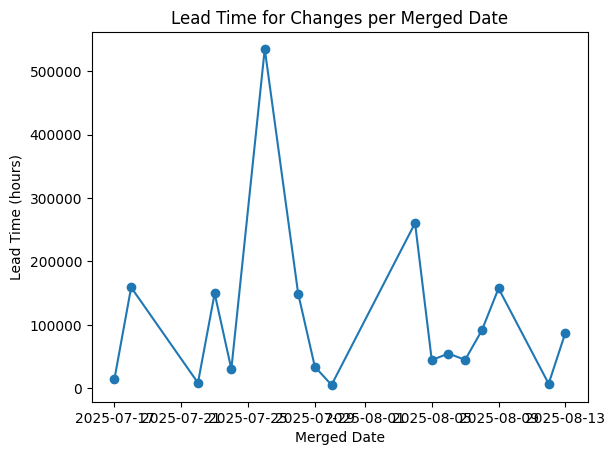
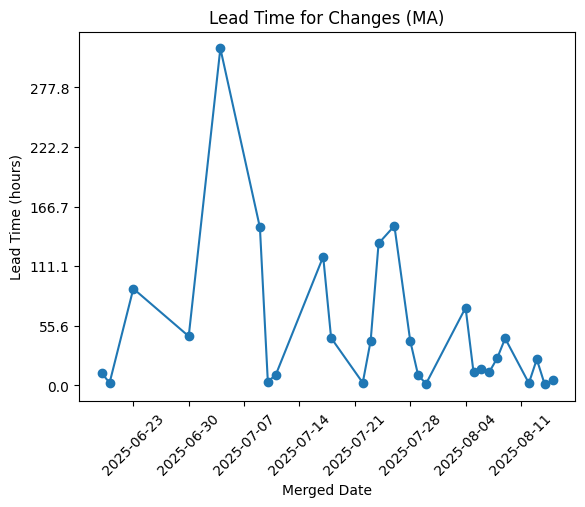
LeadTimeForChangesRecordの初期化メソッドからnumberとtitleを削除し、xおよびyメソッドの戻り値を修正しました。また、MatplotlibLoaderのプロット処理を簡素化し、lead_time_chart.pngを更新しました。LeadTimeForChangesTransformerでのレコード処理をマッピングとリデュースに分割しました。

Changed region(s): [[0.0, 0.0, 0.9846, 0.9846]]

diff --git a/agile_calculator/tasks/loaders/matplotlib_loader.py b/agile_calculator/tasks/loaders/matplotlib_loader.py
@@ -17,22 +17,16 @@ class MatplotlibLoader:
         self.y_label = y_label
 
     def run(self, records) -> None:
-        # merged_dateごとにlead_time_secondsの平均を算出
-        merged_dict = defaultdict(list)
-        for r in records:
-            merged_dict[r.merged_date].append(r.lead_time_seconds)
-        # 日付でソートし、平均値を算出
-        sorted_items = sorted((k, mean(v)) for k, v in merged_dict.items())
-        x = [k for k, v in sorted_items]
-        y = [v for k, v in sorted_items]  # 秒のまま（平均）
+        x = [record.x() for record in records]
+        y = [record.y() for record in records]
         plt.plot(x, y, marker='o')
         plt.xlabel(self.x_label)
         plt.ylabel(self.y_label)
-        # plt.gca().xaxis.set_major_locator(mdates.DayLocator(interval=self.DEFAULT_INTERVAL_DAYS))
-        # plt.xticks(rotation=45)
-        # plt.gca().yaxis.set_major_formatter(
-        #     ticker.FuncFormatter(lambda x, pos: f'{x/self.SECONDS_PER_HOUR:.1f}')
-        # )
+        plt.gca().xaxis.set_major_locator(mdates.DayLocator(interval=self.DEFAULT_INTERVAL_DAYS))
+        plt.xticks(rotation=45)
+        plt.gca().yaxis.set_major_formatter(
+            ticker.FuncFormatter(lambda x, pos: f'{x/self.SECONDS_PER_HOUR:.1f}')
+        )
         plt.title(self.title)
         plt.savefig(self.OUTPUT_FILENAME, bbox_inches='tight')
         plt.close()

diff --git a/agile_calculator/tasks/transformers/lead_time_for_changes_transformer.py b/agile_calculator/tasks/transformers/lead_time_for_changes_transformer.py
@@ -1,4 +1,6 @@
 from typing import Iterator
+from collections import defaultdict
+from statistics import mean
 
 from agile_calculator.records.extracted.pull_request_record import (
     PullRequestRecord,
@@ -10,9 +12,19 @@ from agile_calculator.records.transformed.lead_time_for_changes_record import (
 
 class LeadTimeForChangesTransformer:
     def run(self, records: list[PullRequestRecord]) -> list[LeadTimeForChangesRecord]:
-        return list(self._generate_records(records))
+        mapped_records = list(self._map_records(records))
+        reduced_records = list(self._reduce_records(mapped_records))
+        return reduced_records
 
-    def _generate_records(self, records: list[PullRequestRecord]) -> Iterator[LeadTimeForChangesRecord]:
+    def _reduce_records(self, records: list[LeadTimeForChangesRecord]) -> Iterator[LeadTimeForChangesRecord]:
+        merged_dict = defaultdict(list)
+        for r in records:
+            merged_dict[r.merged_date].append(r.lead_time_seconds)
+        sorted_items = sorted((k, mean(v)) for k, v in merged_dict.items())
+        for k, v in sorted_items:
+            yield LeadTimeForChangesRecord(merged_date=k, lead_time_seconds=v)
+
+    def _map_records(self, records: list[PullRequestRecord]) -> Iterator[LeadTimeForChangesRecord]:
         for record in records:
             if not record.merged_at:
                 continue

diff --git a/agile_calculator/records/transformed/lead_time_for_changes_record.py b/agile_calculator/records/transformed/lead_time_for_changes_record.py
@@ -13,10 +13,10 @@ class LeadTimeForChangesRecord(TransformedRecord):
         self.lead_time_seconds = lead_time_seconds
 
     def x(self):
-        return merged_date
+        return self.merged_date
 
     def y(self):
-        return lead_time_seconds
+        return self.lead_time_seconds
 
     def __repr__(self):
         return (
